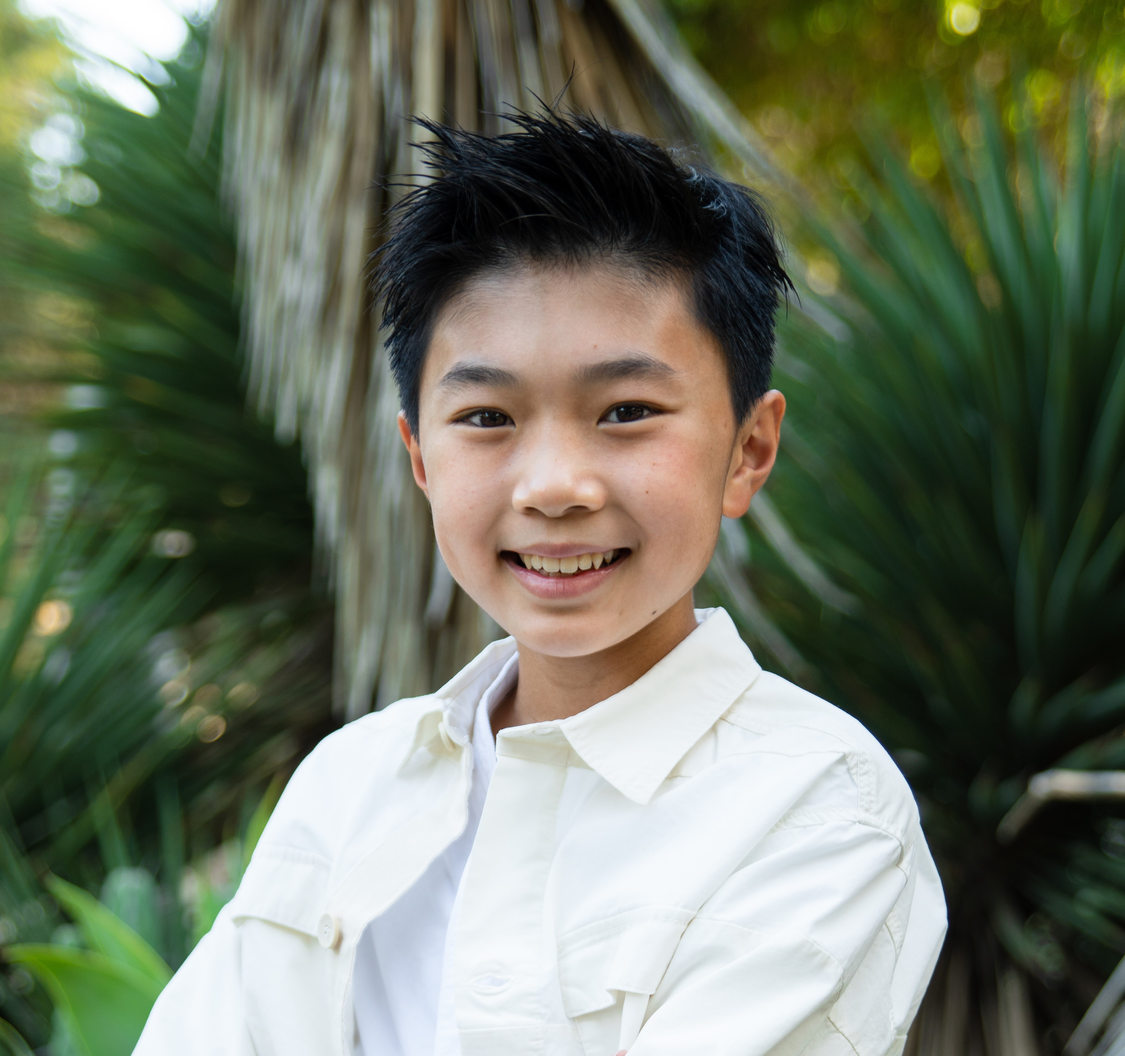
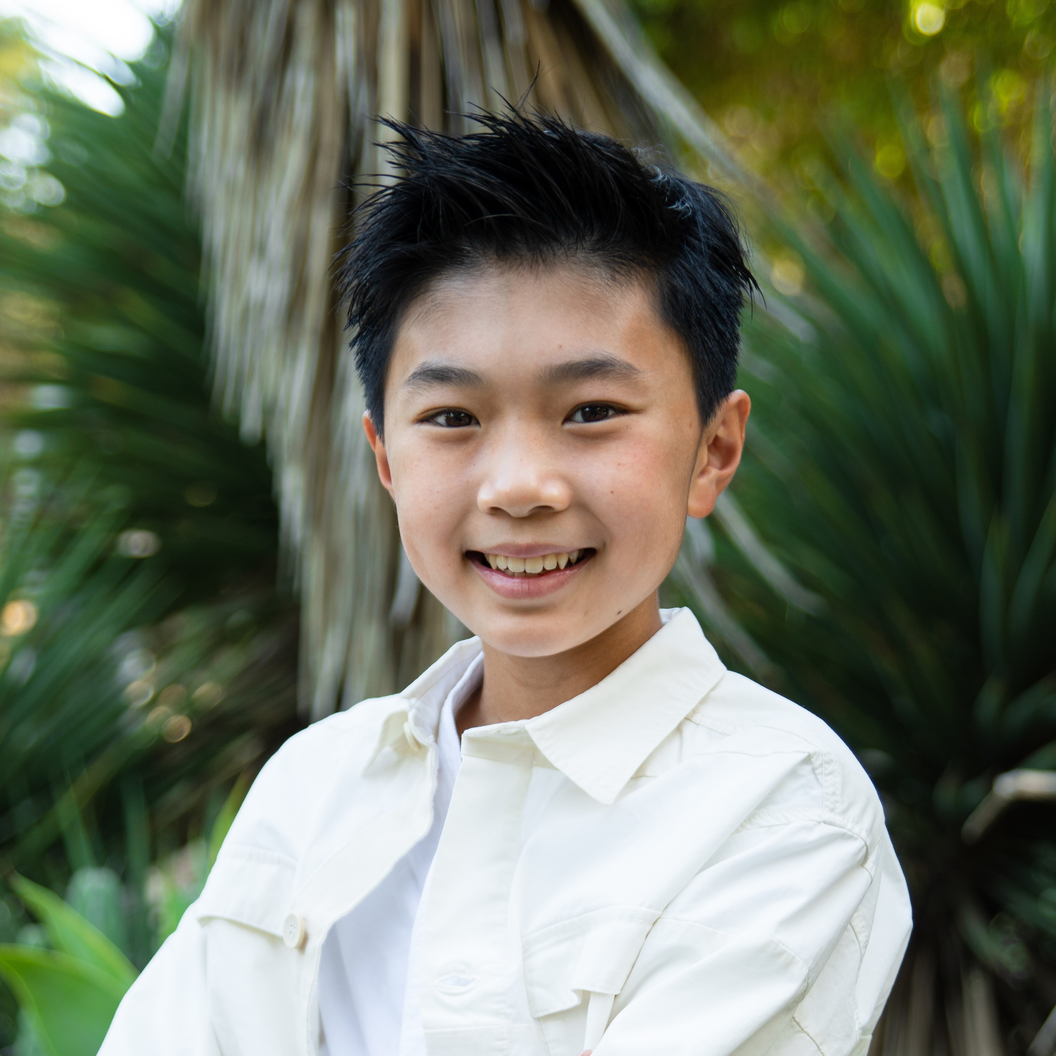
UI UI UI

diff --git a/index.html b/index.html
@@ -116,20 +116,31 @@
     </div>
     <div id="creator" class="ui modal">
       <i class="close icon"></i>
-      <div class="header">About the Creator</div>
+      <div class="header" style="font-size: 25px">About the Creator</div>
       <div class="image content">
-        <div class="ui medium image">
+        <div id="me" class="ui big circular image">
           <img src="utils/Images/_JRM6084.jpg" />
         </div>
 
         <div class="description" style="margin: 20px">
-          <div class="ui header">Sound Level</div>
+          <div class="ui header" style="font-size: 25px">Zachary Leong</div>
           <p>
-            Sounds and stuff
-            <a href="https://www.gravatar.com" target="_blank">gravatar</a>
-            More settings
+            Zachary is 14 years old and currently attending his softmore year at
+            high school in California. He has large passions for origami,
+            programming, blender sculpting, and basketball.
           </p>
-          <p>Anything else?</p>
+          <p>
+            You can check out some of his hobbies on his
+            <a
+              href="https://www.youtube.com/channel/UCQ1T1a9E6B7t-5XXfZruDsw"
+              target="_blank"
+              >YouTube channel.</a
+            >
+          </p>
+          <p>
+            If you would like to contact him, please email him at
+            zdragonite21@gmail.com.
+          </p>
         </div>
       </div>
     </div>

diff --git a/scripts/js/UI.js b/scripts/js/UI.js
@@ -156,6 +156,12 @@ $(document)
       $("#creator").modal("show")
     })
 
+    $("#creator").modal({
+      onVisible: () => {
+        $("#me").transition("jiggle")
+      },
+    })
+
     $("#thanks").click(() => {
       $("#credits").modal("show")
     })
